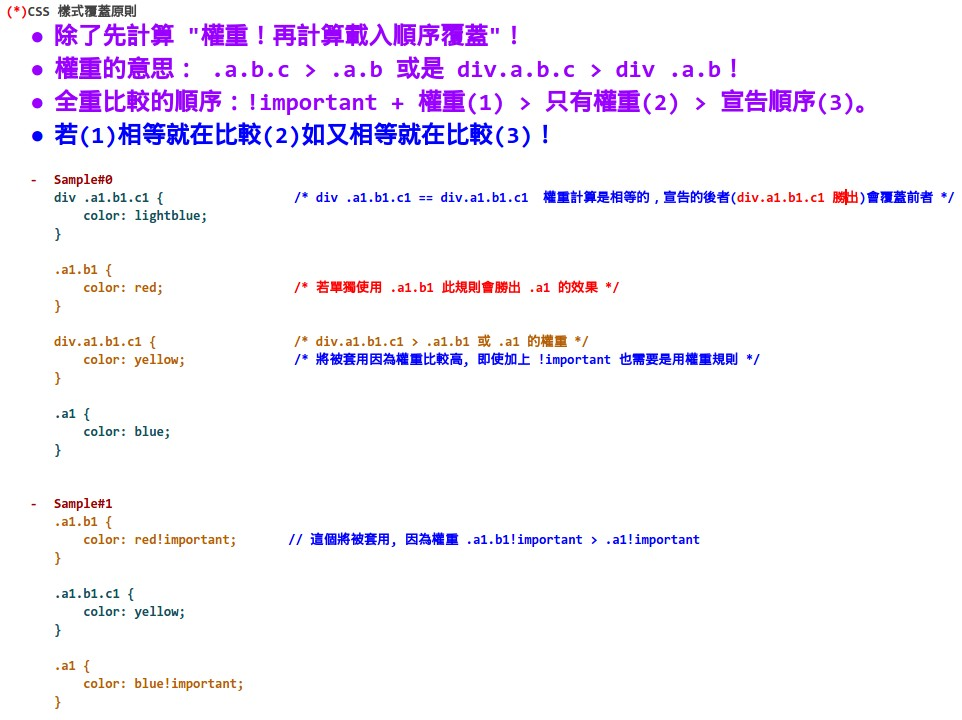
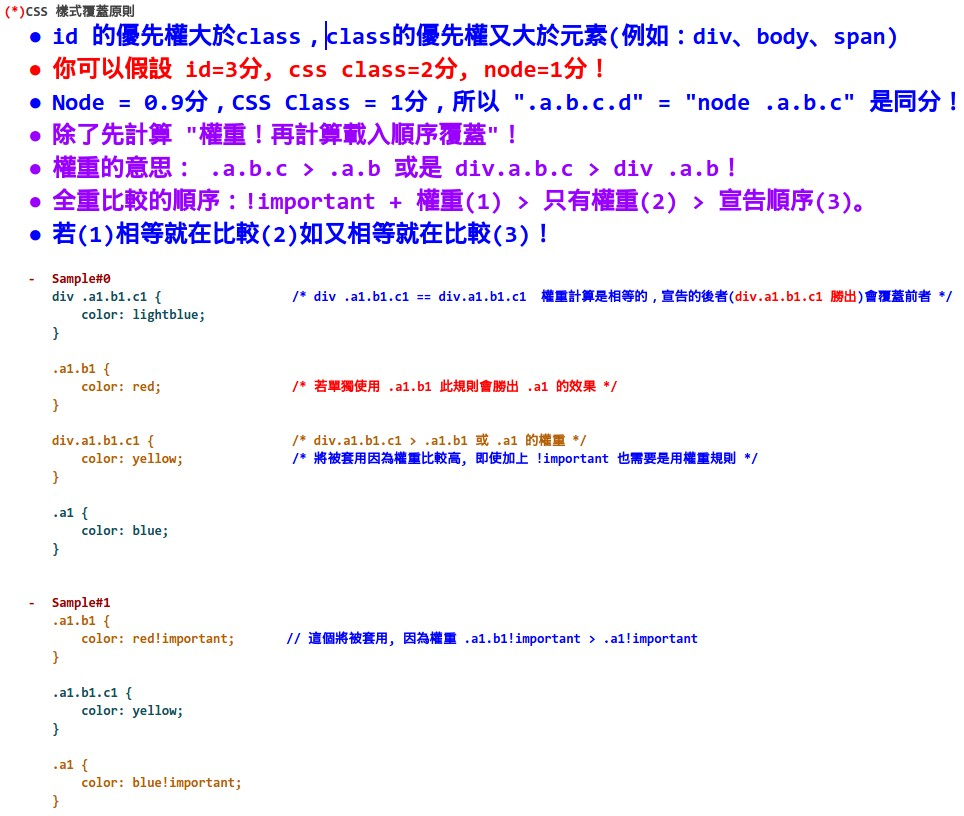
fm

diff --git a/sample01.html b/sample01.html
@@ -4,7 +4,7 @@
     <title></title>
 </head>
 <body>
-<div class="a b c">
+<div class="a b c d">
     a b c
 </div>
 <div class='b c'>
@@ -14,7 +14,7 @@
 <img src="sample01a.jpg">
 </body>
 <style>
-    /* node*1 = 1, .a.b.c = 3, finally = 4 */
+    /* node*1 = 1, .a.b.c = 6, finally = 7 */
     div.a.b.c {
         color: green;
     }
@@ -27,9 +27,18 @@
         color: red;
     }
 
-    /* node*1 = 1, .a.b.c = 3, finally = 4 (但是他再後者宣告所以覆蓋前者) */
+    /* node*1 = 1, .a.b.c = 6, finally = 7 (但是他再後者宣告所以覆蓋前者) */
     body .a.b.c {
         color: silver;
+    }
+
+    .a.b.c.d {
+        color: yellow;
+    }
+
+    /* node*2 = 2, .a.b = 4, finnaly = 6 (輸給上面的 7 分所以這個不會被套用)*/
+    body div.a.b {
+        color: black;
     }
 </style>
 </html>
